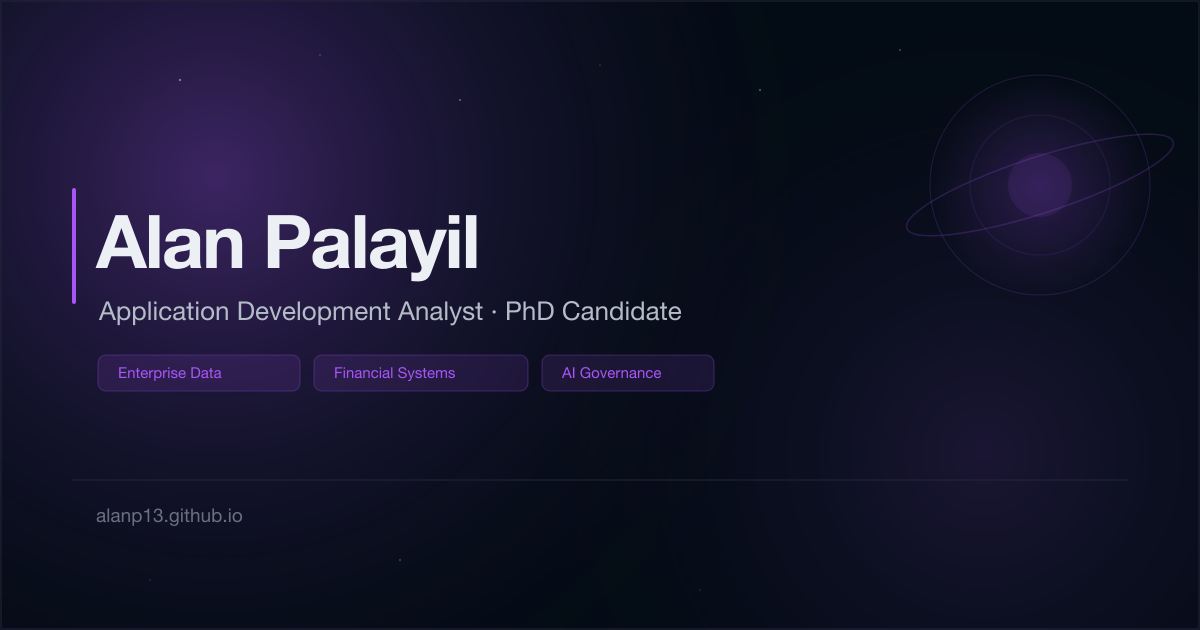
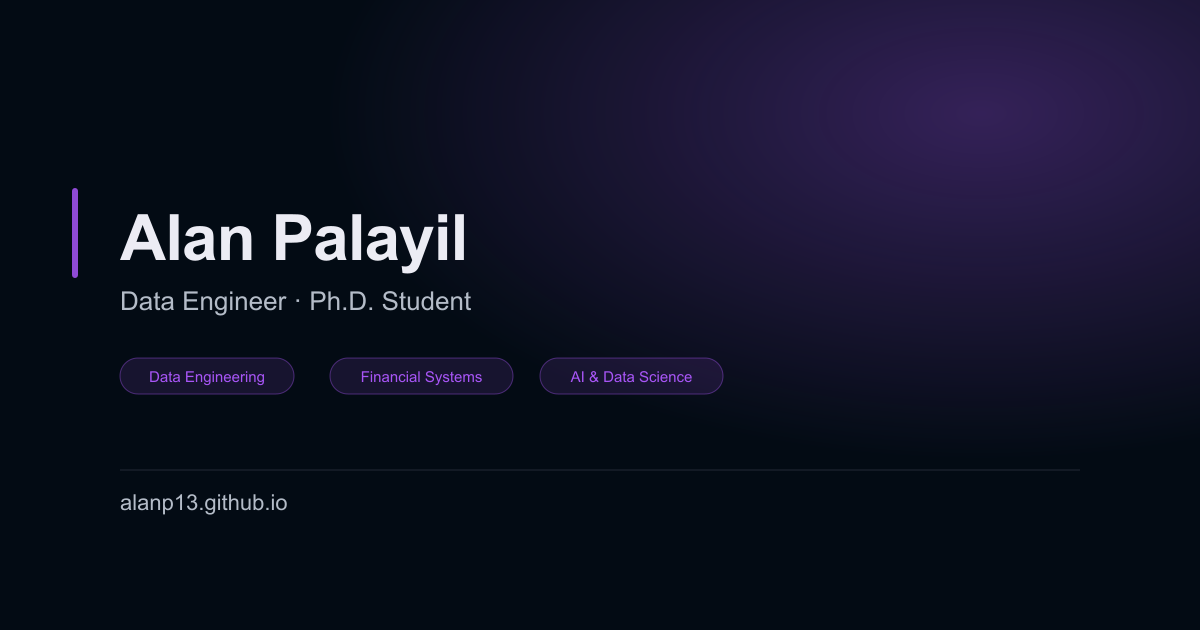
feat: dynamic per-page OG images for research (SD-003), fix stale default card
Per user's explicit choice: sharp + hand-rolled SVG rendering (zero new
top-level dependencies -- sharp is already available transitively via
Astro's image pipeline), with Title + Volume + DOI as card content.

- src/lib/og-image.ts: shared dark-card SVG->PNG renderer, matching the
  site's existing OG card style. Includes a from-scratch greedy
  word-wrap for the title (SVG <text> doesn't auto-wrap).
- src/pages/research/[slug].png.ts: static PNG endpoint, pre-rendered
  at build time for all 10 research pages via getStaticPaths().
- SiteLayout.astro gained an optional `ogImage` prop (falls back to
  the site default when omitted); research/[slug].astro now passes
  its own per-paper image.

Found while building this: the site-wide default public/og-image.png
was itself stale -- "Application Development Analyst | PhD Candidate"
-- despite both facts being corrected in text long ago (ID-001,
Phase-4 P1-003). Regenerated via a new reusable script,
scripts/generate-default-og.mjs, with the current title/role.

diff --git a/src/lib/og-image.ts b/src/lib/og-image.ts
@@ -1,0 +1,120 @@
+import sharp from "sharp";
+
+// Dark-card OG image renderer, matching the site's existing static
+// og-image.png (dark background, purple accent bar + glow, muted footer).
+// Renders an SVG string to PNG via sharp. No external font/image assets
+// are loaded — text uses SVG's built-in sans-serif fallback so this works
+// identically in any build environment.
+
+const WIDTH = 1200;
+const HEIGHT = 630;
+
+// Theme colors (matching theme.css defaults: pluto accent, dark mode).
+const BG = "#030b14";
+const ACCENT = "#a855f7";
+const TEXT = "#ececf4";
+const MUTED = "#b4bcc8";
+const BORDER = "#242a36";
+
+function escapeXml(s: string): string {
+  return s
+    .replace(/&/g, "&amp;")
+    .replace(/</g, "&lt;")
+    .replace(/>/g, "&gt;")
+    .replace(/"/g, "&quot;");
+}
+
+// Naive greedy word-wrap based on an average-character-width estimate.
+// Good enough for a fixed-size OG card; not a general-purpose text layout engine.
+// Builds every line first, then truncates to maxLines with an ellipsis if
+// the full text didn't fit.
+function wrapText(text: string, maxCharsPerLine: number, maxLines: number): string[] {
+  const words = text.split(/\s+/);
+  const allLines: string[] = [];
+  let current = "";
+  for (const word of words) {
+    const next = current ? `${current} ${word}` : word;
+    if (next.length > maxCharsPerLine && current) {
+      allLines.push(current);
+      current = word;
+    } else {
+      current = next;
+    }
+  }
+  if (current) allLines.push(current);
+
+  if (allLines.length <= maxLines) return allLines;
+
+  const truncated = allLines.slice(0, maxLines);
+  const last = truncated[maxLines - 1].replace(/[.,;:]?$/, "");
+  truncated[maxLines - 1] = `${last}…`;
+  return truncated;
+}
+
+export interface OgCardOptions {
+  /** Large headline (auto-wrapped, up to 3 lines). */
+  title: string;
+  /** Accent-colored line below the title (e.g. series + volume, or role line). */
+  subtitle: string;
+  /** Small muted chips/tags shown below the subtitle (optional, max 3). */
+  chips?: string[];
+  /** Bottom-left small text. */
+  footerLeft: string;
+  /** Bottom-right small text. */
+  footerRight?: string;
+}
+
+export async function renderOgCard(opts: OgCardOptions): Promise<Buffer> {
+  const { title, subtitle, chips = [], footerLeft, footerRight = "" } = opts;
+
+  const titleLines = wrapText(title, 34, 3);
+  const titleFontSize = titleLines.length > 2 ? 48 : 56;
+  const titleLineHeight = titleFontSize * 1.15;
+  const titleStartY = 240;
+
+  const titleTspans = titleLines
+    .map((line, i) => `<tspan x="120" dy="${i === 0 ? 0 : titleLineHeight}">${escapeXml(line)}</tspan>`)
+    .join("");
+
+  const subtitleY = titleStartY + titleLines.length * titleLineHeight + 36;
+
+  const chipsSvg = chips
+    .slice(0, 3)
+    .map((chip, i) => {
+      const x = 120 + i * 190;
+      const w = Math.min(180, 24 + chip.length * 9);
+      return `
+        <rect x="${x}" y="${subtitleY + 34}" width="${w}" height="36" rx="18" fill="${ACCENT}" fill-opacity="0.12" stroke="${ACCENT}" stroke-opacity="0.4" />
+        <text x="${x + w / 2}" y="${subtitleY + 58}" font-family="Arial, sans-serif" font-size="15" fill="${ACCENT}" text-anchor="middle">${escapeXml(chip)}</text>
+      `;
+    })
+    .join("");
+
+  const footerY = HEIGHT - 100;
+
+  const svg = `
+<svg width="${WIDTH}" height="${HEIGHT}" viewBox="0 0 ${WIDTH} ${HEIGHT}" xmlns="http://www.w3.org/2000/svg">
+  <defs>
+    <radialGradient id="glow" cx="18%" cy="22%" r="55%">
+      <stop offset="0%" stop-color="${ACCENT}" stop-opacity="0.35" />
+      <stop offset="100%" stop-color="${ACCENT}" stop-opacity="0" />
+    </radialGradient>
+  </defs>
+  <rect width="${WIDTH}" height="${HEIGHT}" fill="${BG}" />
+  <rect width="${WIDTH}" height="${HEIGHT}" fill="url(#glow)" />
+
+  <rect x="72" y="${titleStartY - titleFontSize + 8}" width="6" height="${Math.max(64, titleFontSize + 16)}" rx="3" fill="${ACCENT}" fill-opacity="0.85" />
+
+  <text x="120" y="${titleStartY}" font-family="Arial, sans-serif" font-size="${titleFontSize}" font-weight="700" fill="${TEXT}" letter-spacing="-1">${titleTspans}</text>
+
+  <text x="120" y="${subtitleY}" font-family="Arial, sans-serif" font-size="24" font-weight="500" fill="${ACCENT}">${escapeXml(subtitle)}</text>
+
+  ${chipsSvg}
+
+  <line x1="120" y1="${footerY - 30}" x2="${WIDTH - 120}" y2="${footerY - 30}" stroke="${BORDER}" stroke-width="1" />
+  <text x="120" y="${footerY}" font-family="Arial, sans-serif" font-size="20" fill="${MUTED}">${escapeXml(footerLeft)}</text>
+  ${footerRight ? `<text x="${WIDTH - 120}" y="${footerY}" font-family="Arial, sans-serif" font-size="20" fill="${MUTED}" text-anchor="end">${escapeXml(footerRight)}</text>` : ""}
+</svg>`.trim();
+
+  return sharp(Buffer.from(svg)).png().toBuffer();
+}

diff --git a/src/pages/research/[slug].png.ts b/src/pages/research/[slug].png.ts
@@ -1,0 +1,27 @@
+import type { APIRoute } from "astro";
+import { getCollection, type CollectionEntry } from "astro:content";
+import { renderOgCard } from "../../lib/og-image";
+
+export async function getStaticPaths() {
+  const items = await getCollection("research");
+  return items.map((item) => ({
+    params: { slug: item.slug },
+    props: { item },
+  }));
+}
+
+export const GET: APIRoute = async ({ props }) => {
+  const item = props.item as CollectionEntry<"research">;
+  const d = item.data;
+
+  const png = await renderOgCard({
+    title: d.title,
+    subtitle: d.venue ?? "Engineering-to-Research Monograph Series",
+    footerLeft: "alanp13.github.io",
+    footerRight: d.doi ? `DOI: ${d.doi}` : "",
+  });
+
+  return new Response(png, {
+    headers: { "Content-Type": "image/png" },
+  });
+};

diff --git a/docs/website-roadmap.md b/docs/website-roadmap.md
@@ -348,7 +348,7 @@ Closed every open roadmap item with explicit XS or S effort, per explicit instru
 |---|---|---|---|---|---|
 | SD-001 | [x] | P1 | XS | **Add `datePublished` to ScholarlyArticle JSON-LD** — The `[slug].astro` schema builder never sets `datePublished` even though `publication_date` is populated in all 4 published MDX files. One line: `if (d.publication_date) schemaObj.datePublished = d.publication_date;` | `src/pages/research/[slug].astro:60–68` |
 | SD-002 | [x] | P2 | S | **Link Person schema to ScholarlyArticle records** — The homepage `personSchema` has `sameAs` (LinkedIn, GitHub, ORCID) but no explicit `publication` or `author` links to the 4 ScholarlyArticle pages. Adding these strengthens the Google Knowledge Graph entity. Requires constructing absolute URLs per paper. | `src/pages/index.astro:82–93` |
-| SD-003 | [ ] | P3 | M | **Dynamic OG images per research page** — Research detail pages currently share the same static OG image. A per-page card with paper title and DOI would improve social sharing. Trigger: after basic structured data is solid. | `src/pages/research/[slug].astro` |
+| SD-003 | [x] | P3 | M | **Dynamic OG images per research page.** User chose: sharp + hand-rolled SVG (zero new top-level dependencies — sharp is already available transitively via Astro's image pipeline) and Title + Volume + DOI card content. Built a shared renderer (`src/lib/og-image.ts`, dark-card style matching the existing default) and a static PNG endpoint (`src/pages/research/[slug].png.ts`, pre-rendered at build time — all 10 research pages get their own `/research/<slug>.png`). `SiteLayout` gained an optional `ogImage` prop (falls back to the site default when not passed); `research/[slug].astro` now passes its own image. **Bonus finding while building this:** the site-wide default `public/og-image.png` was itself stale — "Application Development Analyst · PhD Candidate", both facts already fixed everywhere else in text (ID-001, P1-003) but never regenerated as an image asset. Regenerated via a new reusable script (`scripts/generate-default-og.mjs`) with current title/role. | `src/lib/og-image.ts` (new), `src/pages/research/[slug].png.ts` (new), `scripts/generate-default-og.mjs` (new), `src/layouts/SiteLayout.astro`, `src/pages/research/[slug].astro`, `public/og-image.png` |
 
 ### Information architecture and navigation
 
@@ -404,6 +404,7 @@ Chronological. Most recent first.
 
 | Date | ID | Item |
 |---|---|---|
+| 2026-08-24 | LI-008, AWS-MIGRATE-001, SD-003 | **Follow-up sprint** — LI-008: user-verified IIT Student Assistant title on LinkedIn. AWS-MIGRATE-001: new `training` content collection created, AWS Udemy item migrated out of `certifications` via `git mv` (zero visual change, was already hidden). SD-003: dynamic per-page OG images shipped for all 10 research pages (sharp + hand-rolled SVG, zero new dependencies, per user's explicit choice) — new `src/lib/og-image.ts` renderer and `research/[slug].png.ts` static endpoint. Found and fixed in the process: the site-wide default `public/og-image.png` was stale ("Application Development Analyst · PhD Candidate") despite those facts being corrected in text long ago (ID-001, P1-003) — regenerated via new `scripts/generate-default-og.mjs`. |
 | 2026-08-24 | Phase 7 | **XS/S backlog sprint** — Closed all 7 open XS/S-effort roadmap items. CP-005/CP-006 verified already satisfied (qualitative bullets are the intended post-clearance state, not an oversight — audited against `career-os.md` before touching anything). CP-009: About page memberships synced to CV's 5-entry list, Dean's List split into its own Academic Honors heading. CQ-006: removed no-op `--card-bg` self-reference in `index.astro`. UI-014: research detail page padding/sidebar breakpoint/gap aligned to project detail's rhythm where genuinely misaligned (860px→980px, 260px→280px, fixed 32px gap→responsive 18-24px). UI-013: `DESIGN.md` written from full source audit. AN-001: repo-side SEO prerequisites confirmed all correct, reclassified as EXT-005 (pure external action remains). AN-002: Highwire `citation_*` meta tags added to research pages via new `SiteLayout` head slot; no Scholar profile claimed. |
 | 2026-08-24 | Phase 6 | **Full regression audit** — Re-verified all 40+ previously-shipped `[x]` roadmap items against live source (not prior notes). Zero regressions. Closed RES-007 (resume PDF committed/pushed). Reopened CP-001 as **CP-009** (About/CV membership sync broken by CV-001). Logged CQ-006 (minor `--card-bg` duplication). Refreshed Audit Score History with a new Aug 24 column. |
 | 2026-08-24 | ID-011 | Neo4j Certified Professional and Graph Data Science certs upgraded USER-SUPPLIED → VERIFIED; user supplied GraphAcademy certificate URLs matching credential IDs on file. |
@@ -479,4 +480,4 @@ Chronological. Most recent first.
 
 **Aug 24 movers (Phase 3–6, i.e. everything since Jun 24 — schema/audit work plus this session's CV/Resume pass):** O1/EB1 Evidence Visibility 8 → 9 (Phase 4 JSON-LD: `CreativeWork`/`ScholarlyArticle` reclassification, `datePublished`, Person `workExample` linking all published research; Neo4j certs upgraded to VERIFIED with live GraphAcademy links; CFA/Qualys certs gained PDF-backed evidence where none existed before). Technical Credibility 8.5 → 9 (same evidence chain, plus Resume's skills section rebuilt to match the current, accurate resume PDF). Content Depth 8.5 → 9 (CV memberships expanded 3→5 entries, Resume gained a professional summary and full accurate skills taxonomy). Recruiter Clarity 8 → 8.5 (Resume summary + bigger section headers improve scannability). SEO/Structured Data 7.5 → 8, Accessibility 8 → 8.5 (Phase 4 ARIA states, reduced-motion, `datePublished`/`workExample` additions). First Impression and Visual Design held at ceiling — no homepage-hero-level changes this period.
 
-**Remaining ceiling blockers (as of 2026-08-24 XS/S sprint):** EXT-001 (ResearchGate profile + paper uploads), EXT-005/AN-001 (Search Console + Bing submission — repo-ready, needs your authenticated account), EXT-002/AN-002 (Scholar auto-profile — repo-ready, needs Google to index first), IA-003 (ResearchGate distribution links — depends on EXT-001), SD-003/EXT-004 (dynamic OG images, Zenodo `sameAs` in JSON-LD — both M-effort, deferred this pass). CP-005/006/009, UI-013/014, CQ-006 all closed this sprint — see Phase 7 below.
+**Remaining ceiling blockers (as of 2026-08-24):** EXT-001 (ResearchGate profile + paper uploads), EXT-005/AN-001 (Search Console + Bing submission — repo-ready, needs your authenticated account), EXT-002/AN-002 (Scholar auto-profile — repo-ready, needs Google to index first), IA-003 (ResearchGate distribution links — depends on EXT-001), EXT-004 (Zenodo `sameAs` in JSON-LD — small code change, still open). CP-005/006/009, UI-013/014, CQ-006, LI-008, AWS-MIGRATE-001, SD-003 all closed as of this date.
